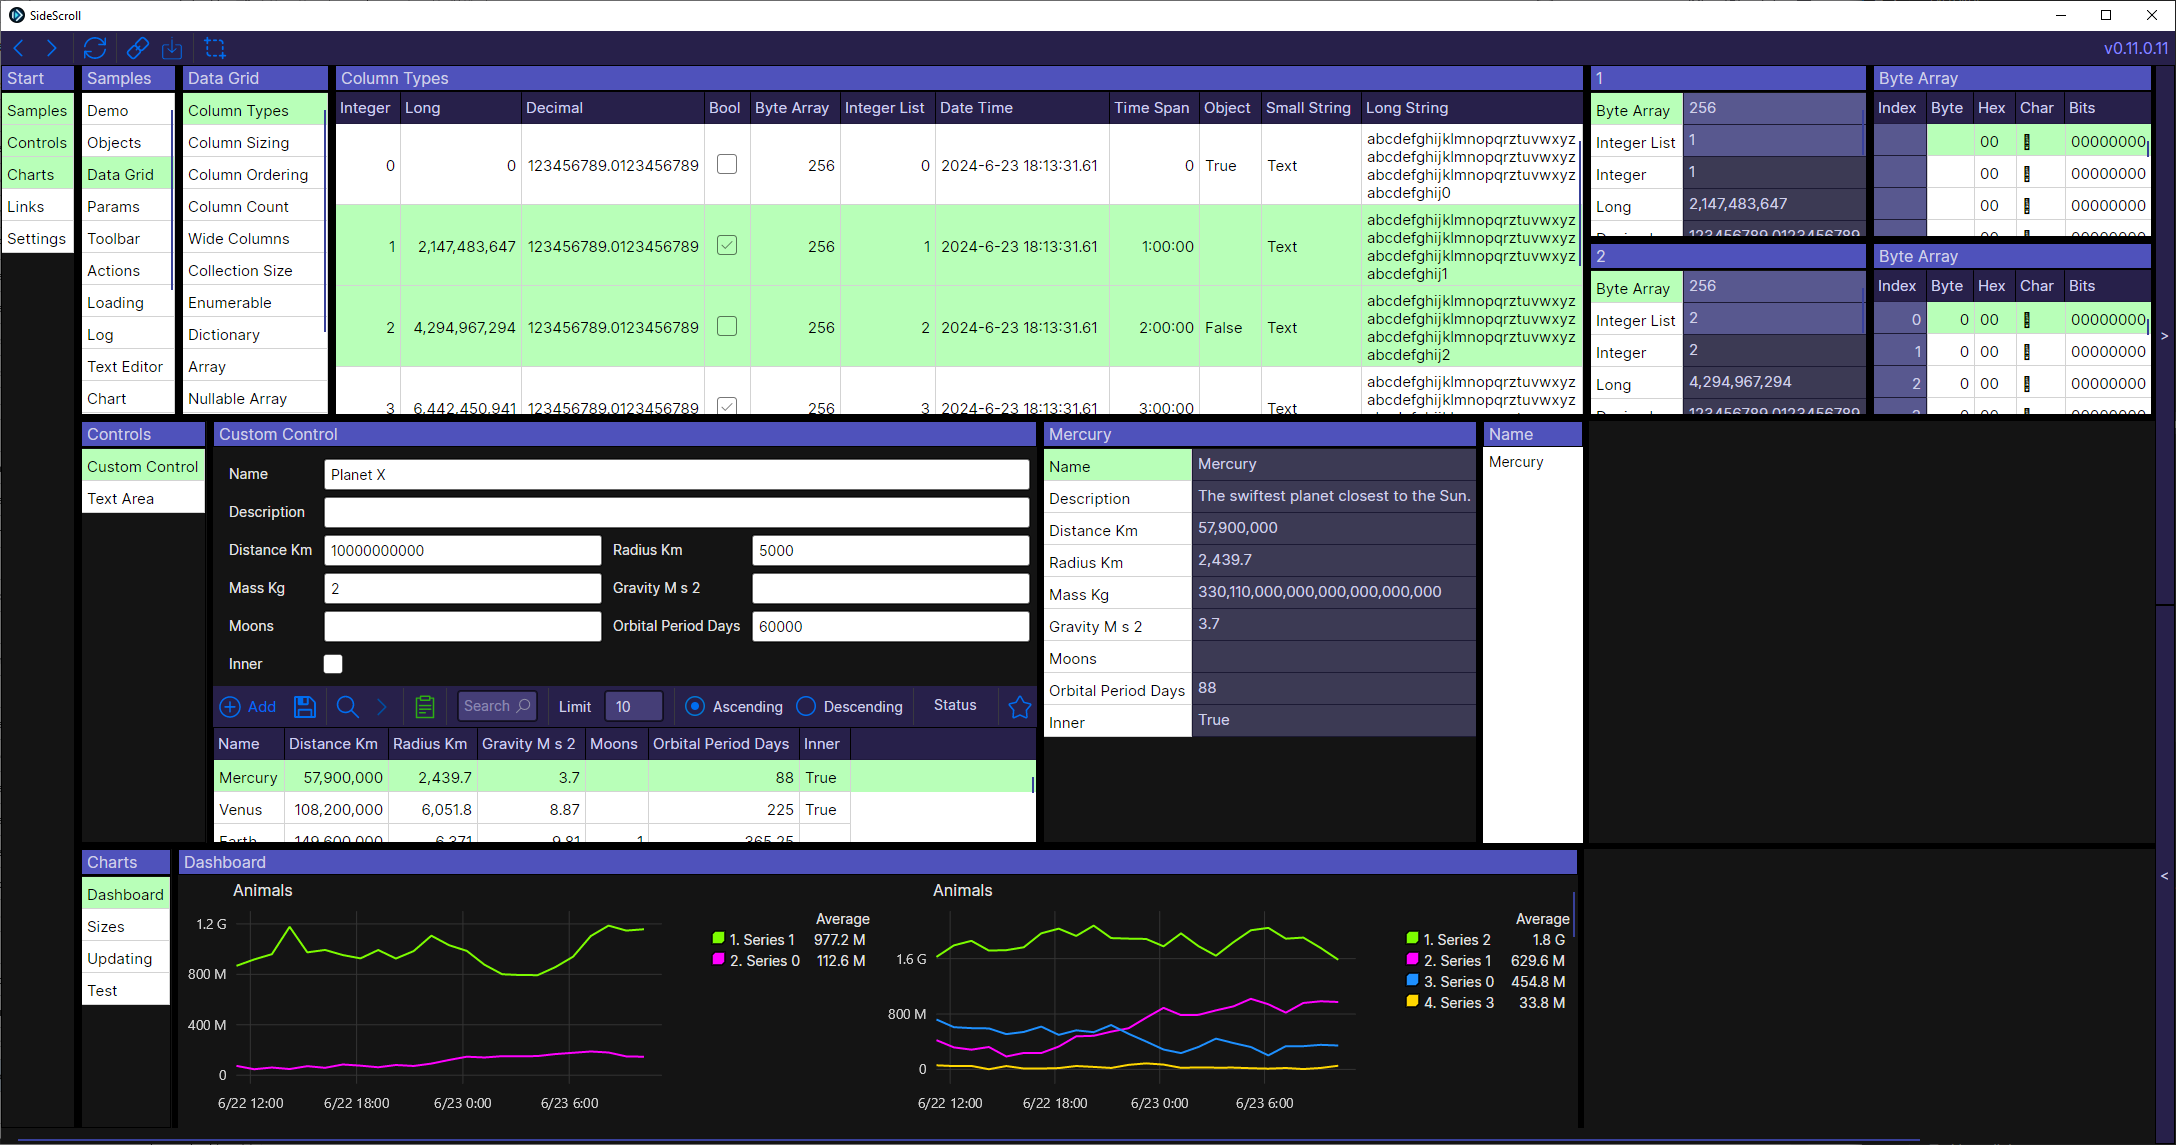
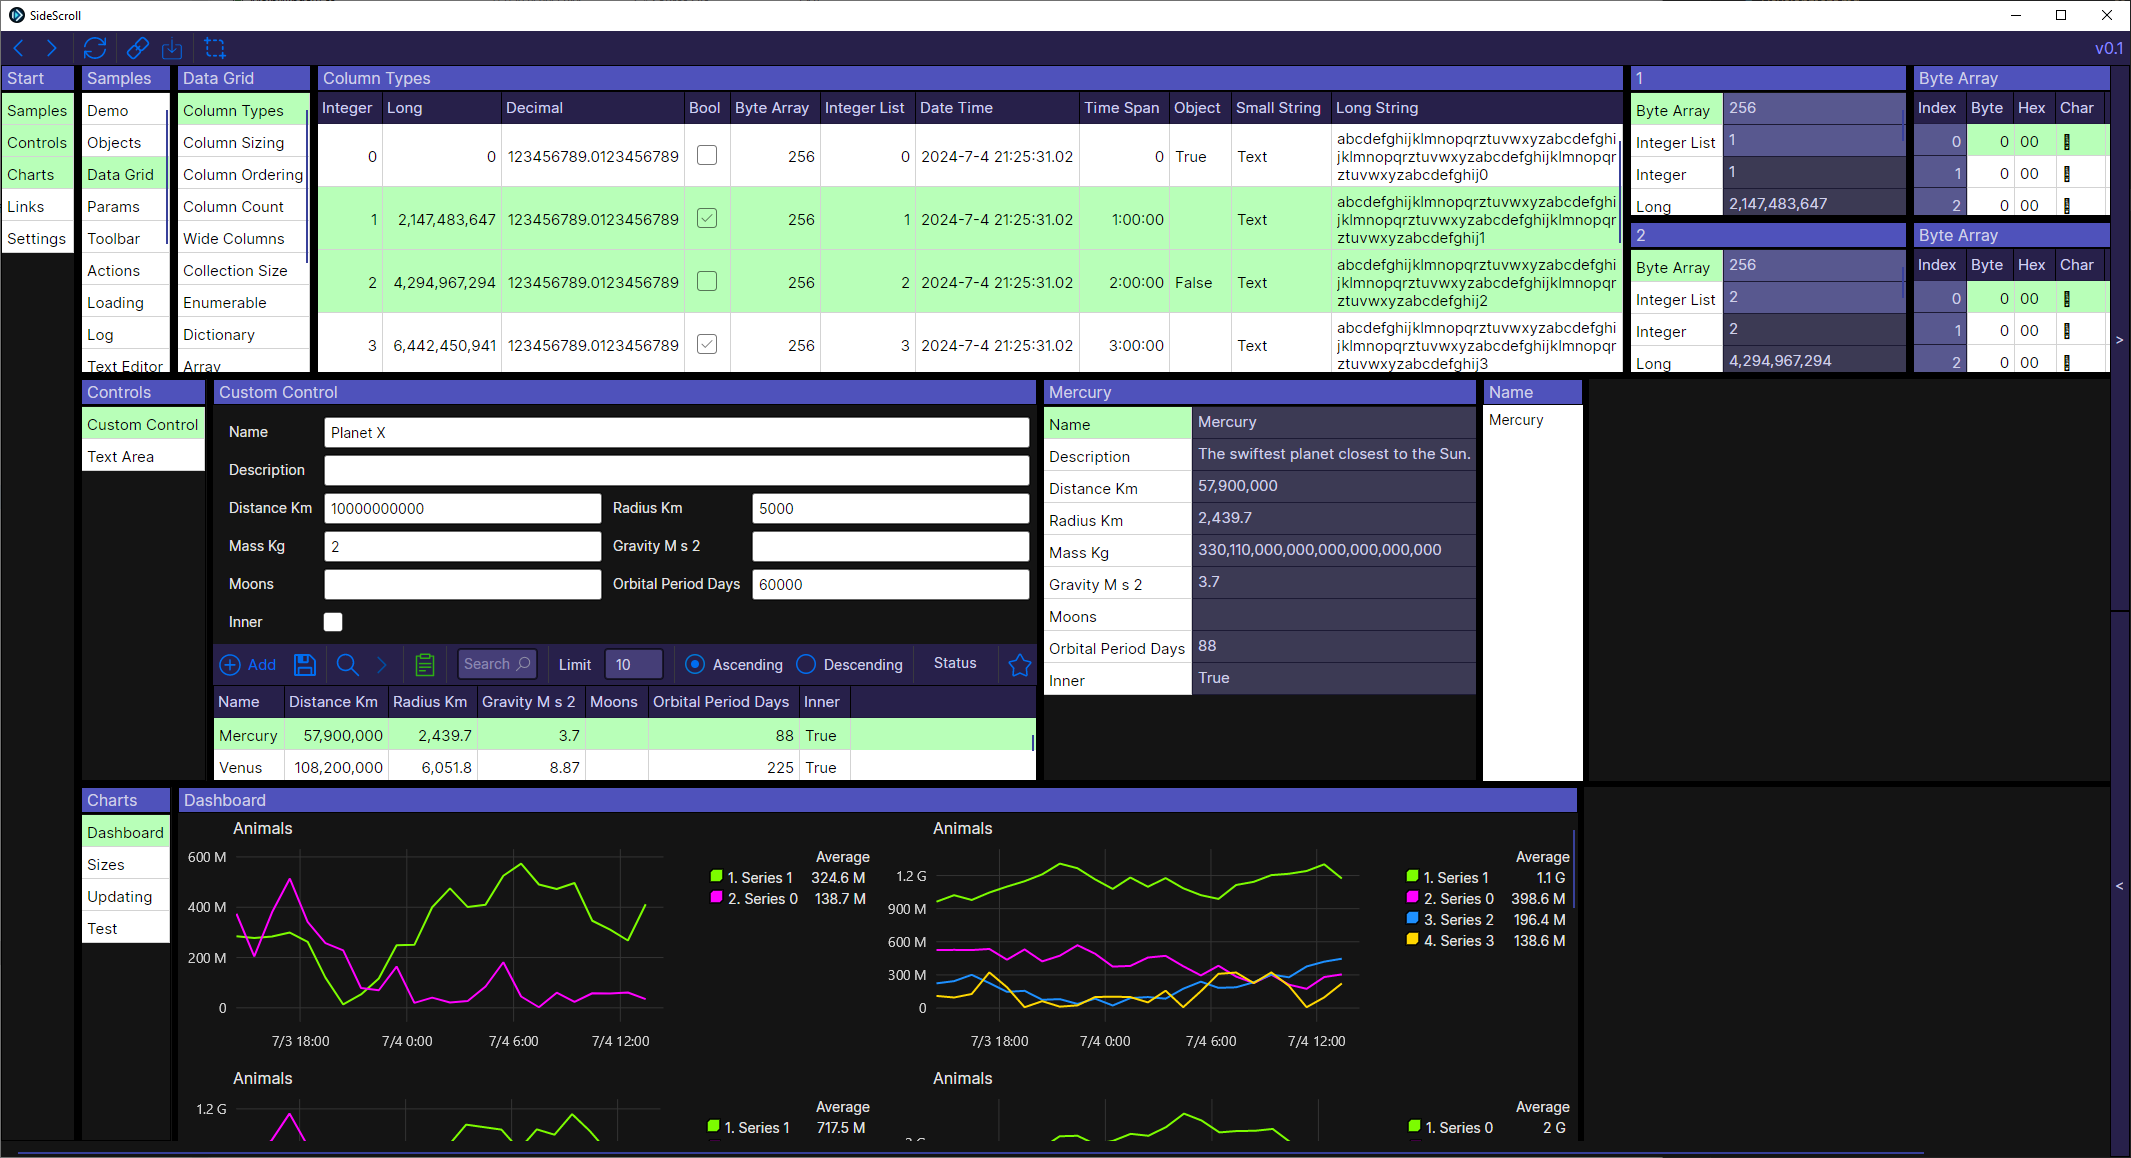
Doc improvements
- Improved some document text and formatting
- Updated screenshots
- Set Authors to SideScroll UI

diff --git a/Libraries/SideScroll.Tabs.Samples/TabSampleBookmarks.cs b/Libraries/SideScroll.Tabs.Samples/TabSampleBookmarks.cs
@@ -14,16 +14,13 @@ public class TabSampleBookmarks : ITab
 	{
 		public override void LoadUI(Call call, TabModel model)
 		{
-			//model.Items = Project.Navigator.History;
-
 			BookmarkNavigator navigator = Project.Navigator.DeepClone(call)!; // Clone from UI thread only
-			navigator.History.RemoveAt(navigator.History.Count - 1); // remove the current in progress bookmark
+			navigator.History.RemoveAt(navigator.History.Count - 1); // Remove the current in progress bookmark
 			navigator.CurrentIndex = navigator.History.Count;
 
 			model.Items = new List<ListItem>
 			{
 				new("Navigator (snapshot)", navigator),
-				//new("Recursive Tab", new TabSample()),
 			};
 
 			model.Notes = "The Navigator class creates a bookmark for every tab change you make, and allows you to move backwards and forwards. The Back/Forward buttons currently use this. Eventually a list/drop down could be used to select the bookmark";

diff --git a/Docs/Dev/Serializer.md b/Docs/Dev/Serializer.md
@@ -1,6 +1,6 @@
 # Serialization
 
-- SideScroll includes it's own serializer, which allows it to load gigabytes of data in a few seconds.
+- SideScroll includes it's own serializer to handle object identification, grouping, permissions, and lazy deserialization.
 
 ## Features
 - Automatically serializes most objects with no additional logic
@@ -8,11 +8,6 @@
 - All public Properties and Fields are automatically serialized
 - Binary Serialization is used for improved speed
 - Circular references are supported
-
-## Lazy Deserialization
-- If you declare a property as virtual, you can load that property value in a lazy manner. 
-- Set `lazy` = `true` when loading with the deserializer, and it will create a wrapper class that will only load the virtual properties when referenced (subsequent references won't reload the data)
-- `public virtual string ReallyLongString { get; set; } = "...";`
   
 ## Constructors
 - Every object must either have a default constructor, or use a class with public properties/fields that matches a constructor
@@ -37,25 +32,32 @@ public class MyClass(int param)
 ## Object Cloning
 
 - You can call the `Serializer.DeepClone<Type>()` to do a deep clone of any object that can be serialized.
-- Any class with a [Static] will not be cloned to speed things up (useful for objects that won't change). This can be useful for copying objects where most of the data doesn't change and you want to take snapshots at intervals.
+- Any class with a `[Static]` will not be cloned to speed things up (useful for objects that won't change). This can be useful for copying objects where most of the data doesn't change and you want to take snapshots at intervals.
 
 ## Restricting Types & Members
-- When importing or exporting data like bookmarks, you might want to restrict which data can be exported
+- When importing or exporting data or links, you might want to restrict which data can be exported
 - When calling any SerializerMemory method, you can set `publicOnly = true` to disable exporting any data without the `[PublicData]` / `[ProtectedData]` attribute
-- Currently, when serializing or deserializing, the debug output will print a warning whenever it encounters a type without a `[PublicData]`, `[ProtectedData]`, or `[PrivateData]` attribute. A warning log entry will also be added.
+- When serializing or deserializing, the debug output will print a warning whenever it encounters a type without a `[PublicData]`, `[ProtectedData]`, or `[PrivateData]` attribute. A warning log entry will also be added.
 - `[PublicData]`
   - Any type or class members that specify this attribute will be included
 - `[ProtectedData]`
-  - All class members will default to [PrivateData], but can be overridden with a [PublicData]
+  - All class members will default to `[PrivateData]`, but can be overridden with a `[PublicData]`
 - `[PrivateData]`
   - Any types or class members that specify this attribute will be ignored, and the debug output will not output a warning for them
 - The following types are also allowed by default
   - `string`
   - `DateTime`
+  - `DateTimeOffset`
   - `TimeSpan`
   - `Type`
   - `object` (exact type or any allowed type only)
+  - `Array`
   - `List`
   - `Dictionary`
   - `HashSet`
 - Any other types will be ignored
+
+## Lazy Deserialization
+- If you declare a property as virtual, you can load that property value in a lazy manner. 
+- Set `lazy` = `true` when loading with the deserializer, and it will create a wrapper class that will only load the virtual properties when referenced (subsequent references won't reload the data)
+- `public virtual string ReallyLongString { get; set; } = "...";`

diff --git a/README.md b/README.md
@@ -1,22 +1,32 @@
 # SideScroll
-SideScroll is an AvaloniaUI library for exploring multiple paths of a tree at once
+SideScroll is an AvaloniaUI library for navigating sideways through a tree of Tabs. Multiple paths can viewed at once, and new tabs will load as you scroll to the right.
 
 ## Features
 * .NET Cross Platform UI Framework that can run on any Windows, MacOS, or Linux system
-* Follow multiple tabs 20 or more levels deep. New tabs will load as you scroll to the right
 * Previous selections are used to automatically select the most likely options
 * Create Links to share views with others
 * DataRepos manage your local saving & loading
 
+## Screenshots
 #### Light Theme
 ![Light Theme](Images/Screenshots/ColumnTypes_CustomControl_Charts_Light.png)
 #### Dark Theme
 ![Dark Theme](Images/Screenshots/ColumnTypes_CustomControl_Charts_Dark.png)
+#### Custom Theming
+![Custom Theme](Images/Screenshots/CustomTheme.png)
+#### Share Links
+![Custom Theme](Images/Screenshots/Links.png)
 
+![Logo](Images/Logo/png/SideScroll_40.png)
+
+### Documentation
 * [Development](Docs/Dev/Development.md)
 * [User Guide](Docs/UserGuide.md)
 * [Credits](Docs/Credits.md)
-* [Demo Project - Video Game Database](https://github.com/SideScrollUI/VideoGamesDB)
+
+### Samples
+* [Video Game Database](https://github.com/SideScrollUI/VideoGamesDB)
+* [SideScroll Samples](/Programs/SideScroll.Start.Avalonia/MainWindow.cs)
 
 ## License
 * [MIT](LICENSE)

diff --git a/Docs/Dev/Projects.md b/Docs/Dev/Projects.md
@@ -1,8 +1,10 @@
-# Libraries
+# Projects
+
+## Libraries
 
 - All libraries use .NET 8.0
 
-## Core Libraries
+### Core Libraries
 
 * SideScroll
   - Tab Interfaces
@@ -17,7 +19,7 @@
 * SideScroll.Network
   - HTTP - (downloading files)
   
-## Tab Libraries
+### Tab Libraries
 
 * SideScroll.Tabs
   - Defines the UI models
@@ -32,7 +34,7 @@
   - Used for testing UI features
   - `* Samples` tabs that show up in debug mode
 
-## User Interface Libraries
+### User Interface Libraries
 
 * SideScroll.UI.Avalonia
   - Cross Platform UI Controls
@@ -47,7 +49,7 @@
 * SideScroll.UI.Avalonia.ScreenCapture
   - Screenshot control for Windows and MacOS
 
-# Programs
+## Programs
 
 * SideScroll.Start.Avalonia
   - The primary application that loads all the other modules

diff --git a/Docs/Dev/Logs.md b/Docs/Dev/Logs.md
@@ -2,19 +2,15 @@
 
 ```csharp
 Log log = new();
-log.Add("New Log entry", new Tag("Name", "value"), new Tag("Count", 123));
+log.Add("New Log entry",
+	new Tag("Name", "value"),
+	new Tag("Count", 123));
 ```
 * Logs have a tree structure and can be nested as deep as necessary.
 
 ## Tags
 * All the tags get added to the log line.
 * You can embed any object in the Tag `Value`, but these can consume lots of memory if you're not careful. These values can later be viewed in the log entry's `Tags` properties.
-
-```csharp
-log.Add("New Log entry", 
-	new Tag("Name", "value"), 
-	new Tag("Count", 123));
-```
 
 ## Timer
 * You can time any operation by using a Log or Call Timer with the `using` operator

diff --git a/Docs/Dev/Development.md b/Docs/Dev/Development.md
@@ -1,6 +1,6 @@
 # Development
 
-## Clone SideScroll
+## Clone
 - `git clone https://github.com/SideScrollUI/SideScroll.git`
 - `cd SideScroll`
 
@@ -10,10 +10,14 @@
 - Run
   - `dotnet run --project Programs/SideScroll.Start.Avalonia/SideScroll.Start.Avalonia.csproj`
 
+### Publishing
+- Pack
+  - `dotnet pack -o Packages`
+
 ## IDE
 - IDE's
-  - [Visual Studio](IDEs/VisualStudio.md) (Windows Only)
   - [JetBrains Rider](https://www.jetbrains.com/rider/)
+  - [Visual Studio](IDEs/VisualStudio.md) (Windows Only)
   - [Visual Studio Code](IDEs/VisualStudioCode.md)
 - Open `SideScroll.sln`
 - Start SideScroll

diff --git a/Docs/Dev/AddingTabs.md b/Docs/Dev/AddingTabs.md
@@ -200,7 +200,7 @@ public class TabSampleAsync : ITab
   - `ToolComboBox` to add a drop down that is bound to the passed list, with an optional default
   - `string` to show text
 - If a more custom Toolbar is required, you can also derive a class from the `TabControlToolbar`
-  - See  [TabControlSearchToolbar](../../Libraries/SideScroll.Tabs.Samples/TabControlSearchToolbar.cs) for example
+  - See [TabControlSearchToolbar](../../Libraries/SideScroll.Tabs.Samples/TabControlSearchToolbar.cs) for example
 
 ```csharp
 public class TabSampleToolbar : ITab
